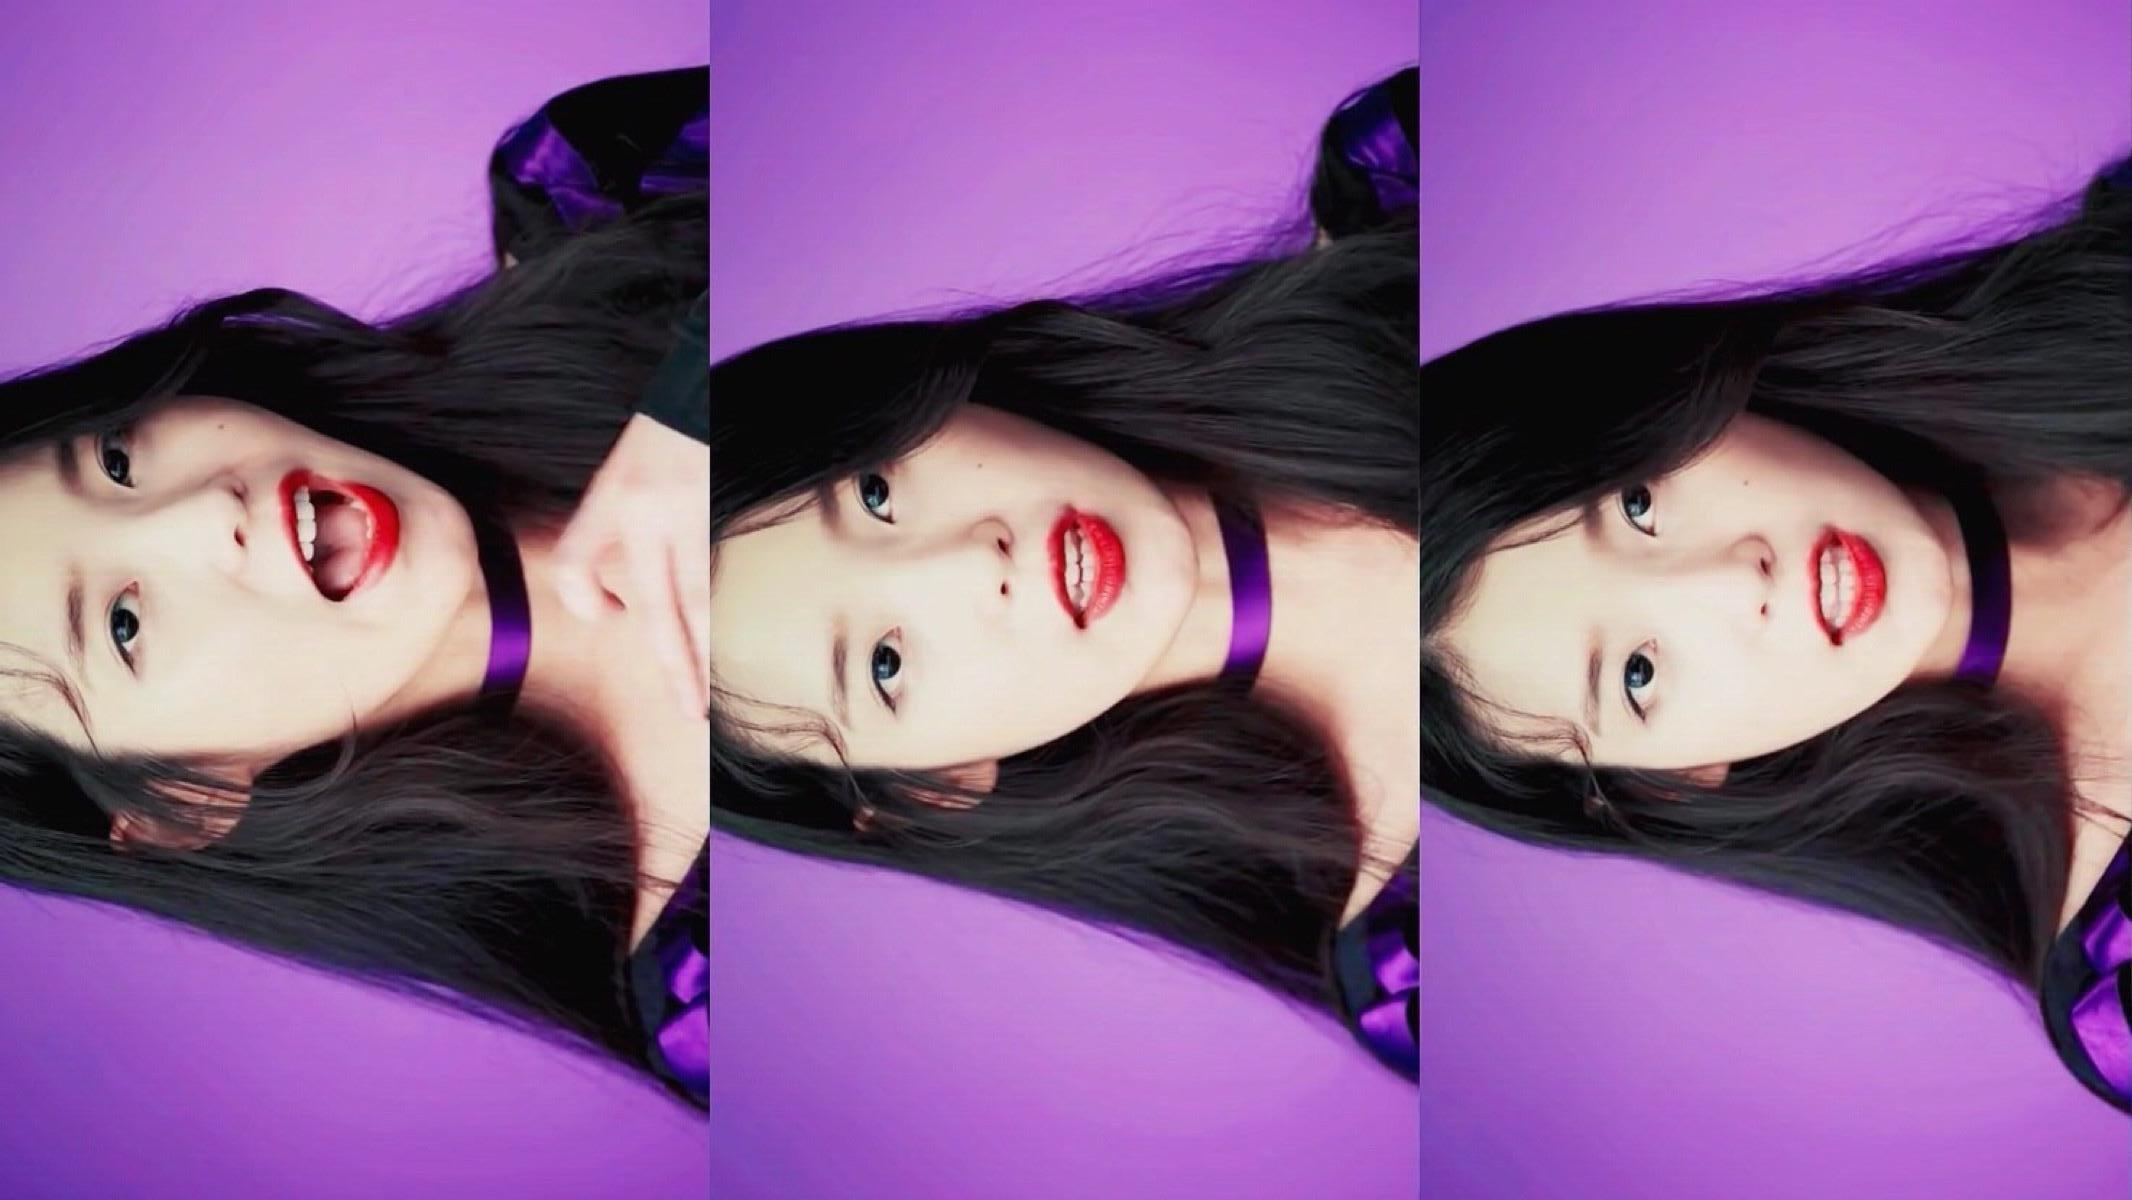
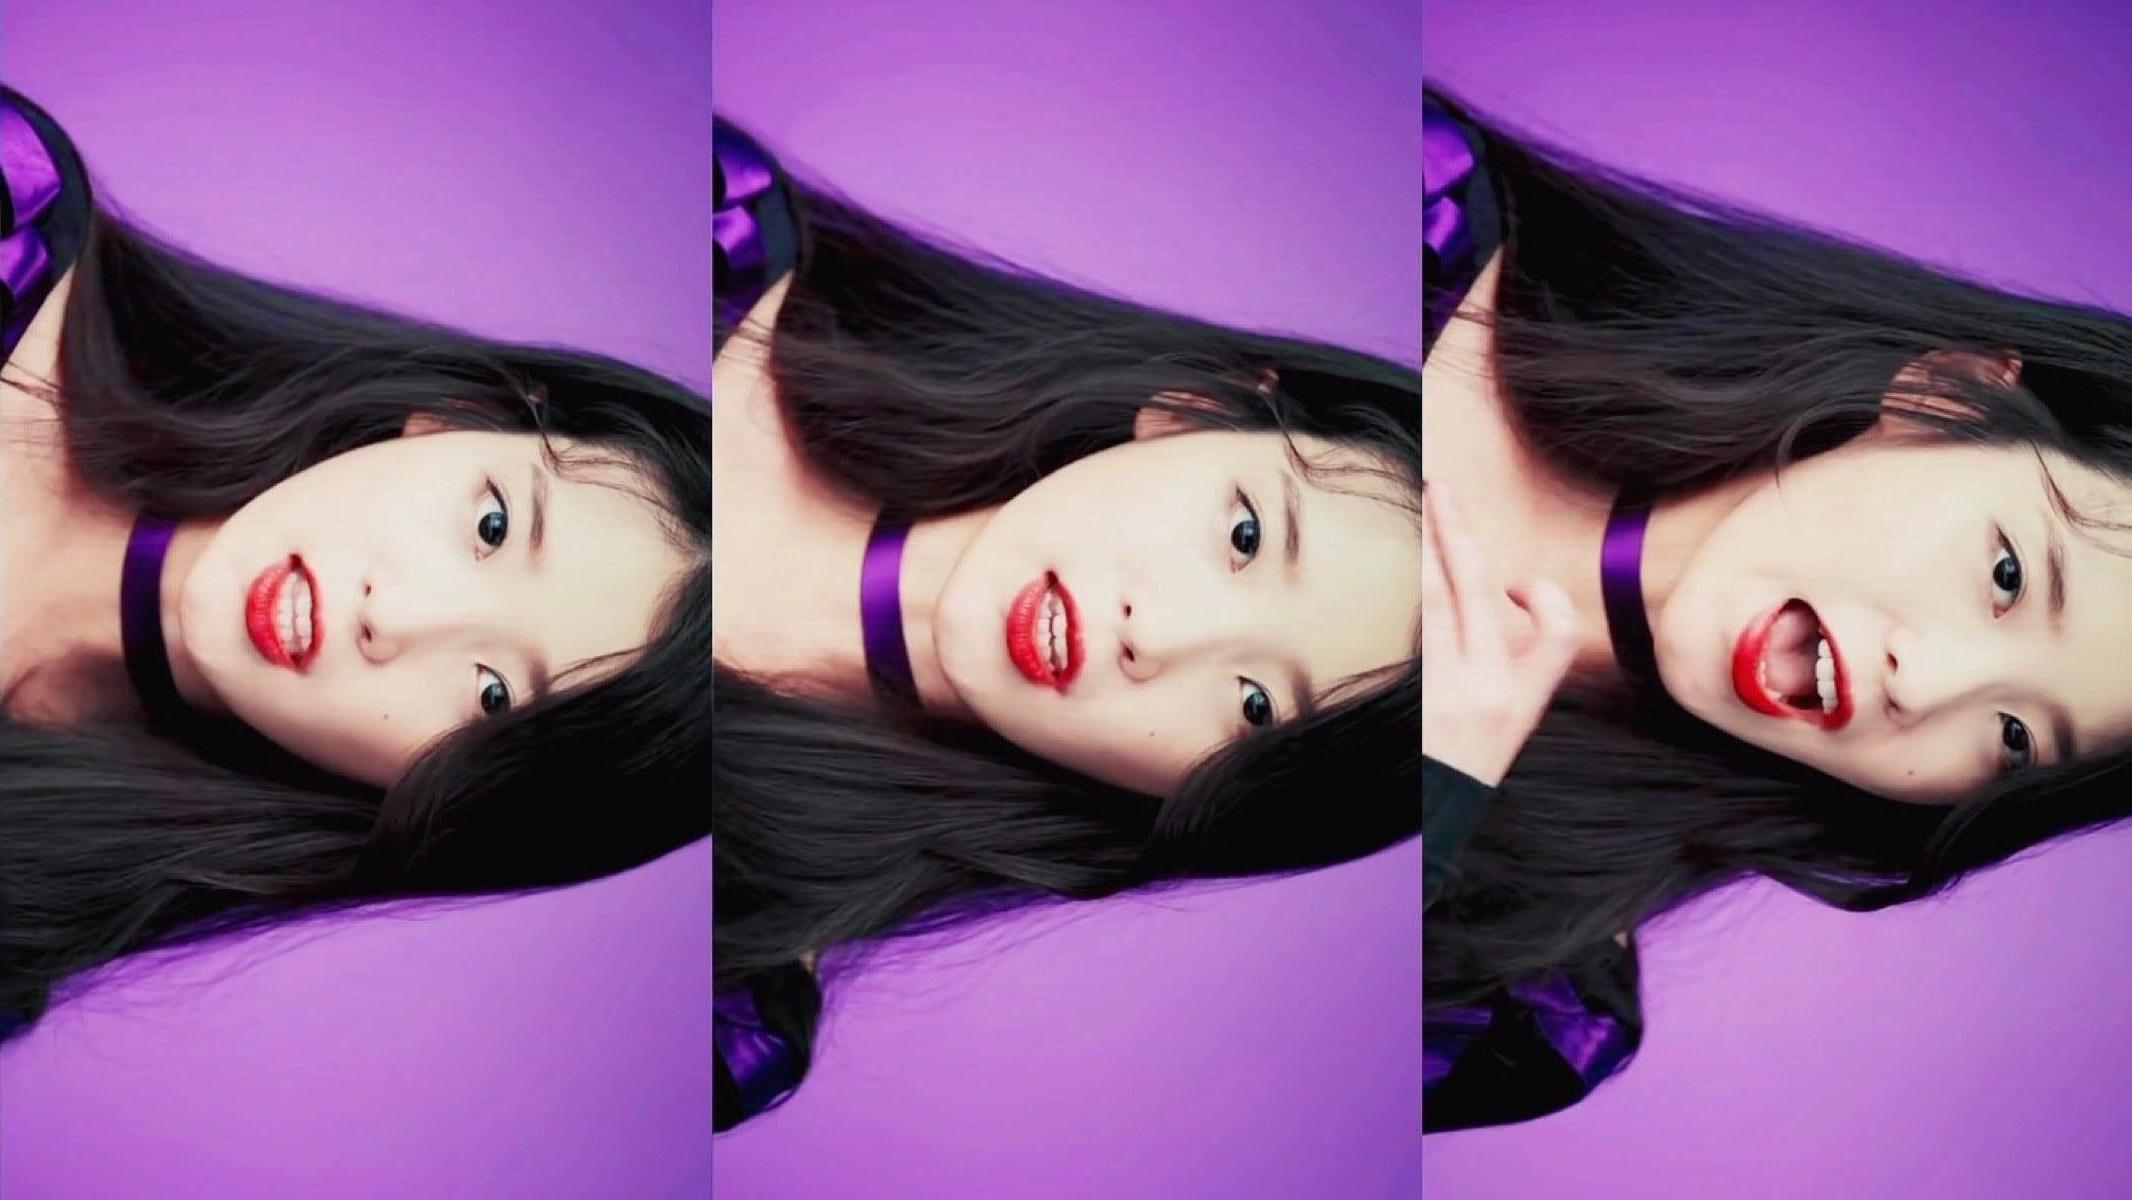
perf: fix

diff --git a/src/index.tsx b/src/index.tsx
@@ -29,40 +29,6 @@ interface ImageZoomState {
 }
 
 export default class ImageZoom extends React.PureComponent<ImageZoomProps, ImageZoomState> {
-  private imageLoader: any;
-  state: any = {
-    url: '',
-    degree: 0,
-  };
-
-  render() {
-    return <ReactImageZoom {...this.reactImageZoomProps}>{this.renderChildren}</ReactImageZoom>;
-  }
-
-  componentDidUpdate(
-    prevProps: Readonly<ImageZoomProps>,
-    prevState: Readonly<ImageZoomState>,
-    snapshot?: any,
-  ): void {
-    if (!!this.props.rotate) {
-      if (prevProps.src !== this.props.src) {
-        // image changed
-        // reload images
-        delete this.imageLoader;
-        this.loadRotateImage();
-      } else if (prevState.degree !== this.state.degree) {
-        // degree changed
-        if (this.state.degree !== 0) {
-          this.loadRotateImage();
-        } else {
-          // unnecessary to load image degree 0
-          this.setState({
-            url: '',
-          });
-        }
-      }
-    }
-  }
 
   private get renderChildren() {
     if (typeof this.props.rotate === 'function') {
@@ -86,6 +52,45 @@ export default class ImageZoom extends React.PureComponent<ImageZoomProps, Image
       zoomLensStyle: hyphenateCss(Object.assign({}, defaultZoomLensStyle, zoomLensStyle)),
     };
   }
+  state: any = {
+    url: '',
+    degree: 0,
+  };
+  private imageLoader: any;
+
+  render() {
+    return <ReactImageZoom {...this.reactImageZoomProps}>{this.renderChildren}</ReactImageZoom>;
+  }
+
+  componentDidMount(): void {
+    this.loadRotateImage(true);
+  }
+
+  componentDidUpdate(
+    prevProps: Readonly<ImageZoomProps>,
+    prevState: Readonly<ImageZoomState>,
+  ): void {
+    if (!!this.props.rotate) {
+      if (prevProps.src !== this.props.src) {
+        // image changed
+        // reload images
+        delete this.imageLoader;
+        this.setState({ degree: 0 }, () => {
+          this.loadRotateImage(true);
+        });
+      } else if (prevState.degree !== this.state.degree) {
+        // degree changed
+        const ignoreCallback = this.state.degree === 0;
+        this.loadRotateImage(ignoreCallback);
+        if (ignoreCallback) {
+          // unnecessary to load image degree 0
+          this.setState({
+            url: '',
+          });
+        }
+      }
+    }
+  }
 
   private rotateIt(clockwise = false as boolean) {
     this.setState(state => {
@@ -93,7 +98,8 @@ export default class ImageZoom extends React.PureComponent<ImageZoomProps, Image
         return {
           degree: 0,
         };
-      } if (state.degree === 0 && clockwise === false) {
+      }
+      if (state.degree === 0 && clockwise === false) {
         return {
           degree: 270,
         };
@@ -111,7 +117,7 @@ export default class ImageZoom extends React.PureComponent<ImageZoomProps, Image
     });
   }
 
-  private loadRotateImage() {
+  private loadRotateImage(ignoreCallback?: boolean) {
     const { rotate, src } = this.props;
     const { degree } = this.state;
 
@@ -125,10 +131,12 @@ export default class ImageZoom extends React.PureComponent<ImageZoomProps, Image
       this.imageLoader = new ImageLoader(src);
     }
 
-    this.imageLoader.draw(degree, (blobURL: string) => {
-      this.setState({
-        url: blobURL,
+    if (!ignoreCallback) {
+      this.imageLoader.draw(degree, (blobURL: string) => {
+        this.setState({
+          url: blobURL,
+        });
       });
-    });
+    }
   }
 }

diff --git a/src/ImageLoader.tsx b/src/ImageLoader.tsx
@@ -2,18 +2,28 @@ export default class ImageLoader {
   private canvas: HTMLCanvasElement;
   private ctx: CanvasRenderingContext2D;
   private img: HTMLImageElement;
+  private imgCache: {};
   private src: string;
   private naturalWidth: number;
   private naturalHeight: number;
   private max: number;
   constructor(src: string) {
     this.src = src;
+    this.imgCache = [];
     this.canvas = document.createElement('canvas');
     this.ctx = this.canvas.getContext('2d');
     return this;
   }
 
-  draw(degrees = 0 as number, callback: (blobURL: string) => void) {
+  draw(degrees = 0 as number, callback?: (blobURL: string) => void) {
+    const cache = this.imgCache[degrees];
+    if (typeof cache !== 'undefined') {
+      if (typeof callback === 'function') {
+        callback(cache);
+      }
+      return;
+    }
+
     if (typeof this.img === 'undefined') {
       // not ready, retry after loaded
       this.loadOriginImage(this.src, () => {
@@ -37,14 +47,17 @@ export default class ImageLoader {
     this.canvas.height = height;
     // parse image data
     this.ctx.putImageData(imageData, 0, 0);
+    //  dataURL
+    const base64 = this.canvas.toDataURL();
+    //  blob
+    const blob = this.dataURLtoBlob(base64);
+    //  blobUrl
+    const blobURL = this.blobtoURL(blob);
+    // write cache
+    this.imgCache[degrees] = blobURL;
     // callback
     if (typeof callback === 'function') {
-      //  dataURL
-      const base64 = this.canvas.toDataURL();
-      //  blob
-      const blob = this.dataURLtoBlob(base64);
-      //  blobUrl
-      const blobURL = this.blobtoURL(blob);
+      // callback
       callback(blobURL);
     }
   }
@@ -67,6 +80,7 @@ export default class ImageLoader {
     const width = this.naturalWidth;
     const height = this.naturalHeight;
     const max = this.max;
+    const vertical = width < height;
     switch (degrees) {
       case 90:
         return {
@@ -74,8 +88,8 @@ export default class ImageLoader {
           width: height,
           height: width,
           offset: max / 2,
-          clipX: max - width,
-          clipY: max - height,
+          clipX: !vertical ? max - width : 0,
+          clipY: !vertical ? max - height : 0,
         };
       case 270:
         return {
@@ -83,8 +97,8 @@ export default class ImageLoader {
           width: height,
           height: width,
           offset: max / 2,
-          clipX: 0,
-          clipY: 0,
+          clipX: !vertical ? 0 : max - width,
+          clipY: !vertical ? 0 : 0,
         };
       default:
         return {

diff --git a/src/pages/demo.jsx b/src/pages/demo.jsx
@@ -1,24 +1,46 @@
+import React, { useState } from 'react';
+import { Button } from 'antd';
 import ImageZoom from '../';
-import img from '../assets/iu.jpeg';
+import img1 from '../assets/iu.jpeg';
+import img2 from '../assets/iu2.jpeg';
+import img3 from '../assets/iu3.jpeg';
+import img4 from '../assets/iu4.jpeg';
+import img5 from '../assets/iu5.jpeg';
+import img6 from '../assets/iu6.jpeg';
+import img7 from '../assets/iu7.jpeg';
+import img8 from '../assets/iu8.jpeg';
+import img9 from '../assets/iu9.jpeg';
+import img10 from '../assets/iu10.jpeg';
+
+const imgs = [img1, img2, img3, img4, img5, img6, img7, img8, img9, img10];
 
 export default function() {
+  const [imgIndex, setImgIndex] = useState(1);
+
+  function setIndex() {
+    setImgIndex(imgIndex + 1);
+  }
+
   return (
-    <ImageZoom
-      rotate={(clockwise, antiClockwise) => {
-        return (
-          <div>
-            <button onClick={clockwise} style={{ position: 'absolute', left: 0, zIndex: 1 }}>
-              顺时间
-            </button>
-            <button onClick={antiClockwise} style={{ position: 'absolute', right: 0, zIndex: 1 }}>
-              逆时间
-            </button>
-          </div>
-        );
-      }}
-      src={img}
-      width={400}
-      zoomWidth={500}
-    />
+    <div className="demo">
+      <Button onClick={setIndex}>next</Button>
+      <ImageZoom
+        rotate={(clockwise, antiClockwise) => {
+          return (
+            <div>
+              <Button onClick={clockwise} style={{ position: 'absolute', left: 0, zIndex: 1 }}>
+                顺时间
+              </Button>
+              <Button onClick={antiClockwise} style={{ position: 'absolute', right: 0, zIndex: 1 }}>
+                逆时间
+              </Button>
+            </div>
+          );
+        }}
+        src={imgs[imgIndex]}
+        width={400}
+        zoomWidth={500}
+      />
+    </div>
   );
 }

diff --git a/.umirc.js b/.umirc.js
@@ -1,5 +1,27 @@
+// ref: https://umijs.org/config/
 export default {
-  chainWebpack(config) {
+  chainWebpack(config /* , { webpack } */) {
     config.plugins.delete('progress');
   },
+  plugins: [
+    // ref: https://umijs.org/plugin/umi-plugin-react.html
+    [
+      'umi-plugin-react',
+      {
+        antd: true,
+        dva: true,
+        dynamicImport: { webpackChunkName: true },
+        dll: false,
+        routes: {
+          exclude: [
+            /models\//,
+            /services\//,
+            /model\.(t|j)sx?$/,
+            /service\.(t|j)sx?$/,
+            /components\//,
+          ],
+        },
+      },
+    ],
+  ],
 };

diff --git a/src/global.less b/src/global.less
@@ -1,3 +1,3 @@
-#root div {
+.demo div {
   border: 1px solid #333;
 }
